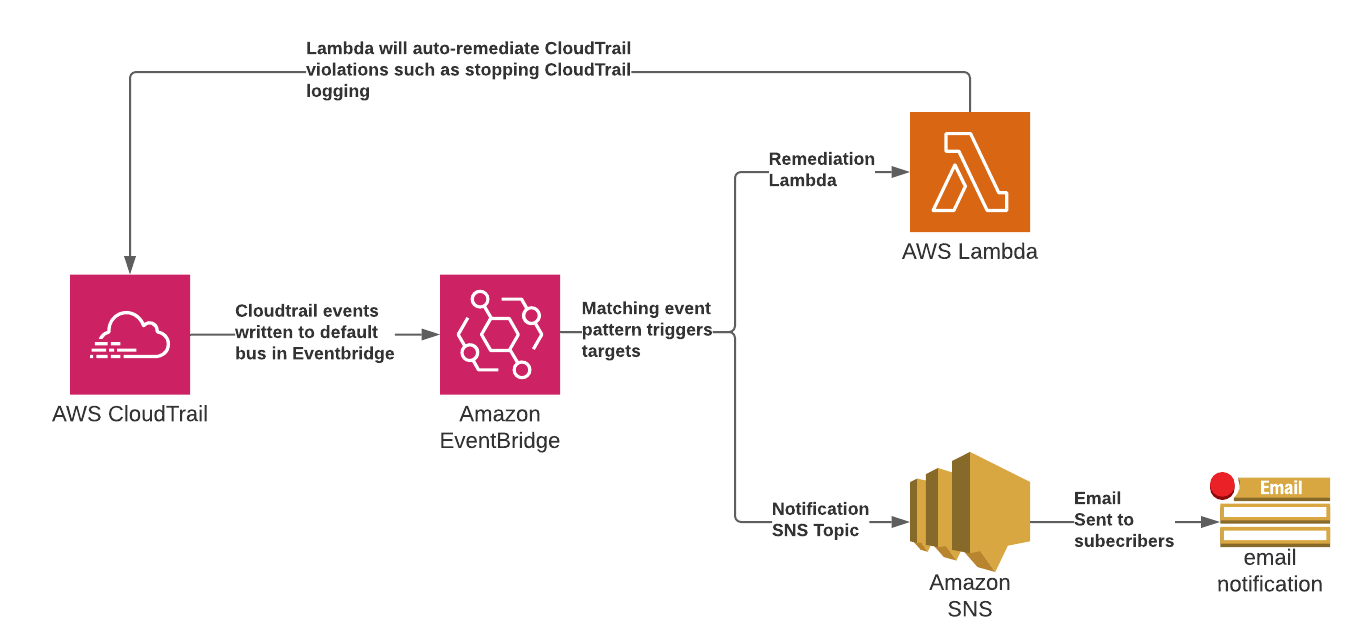
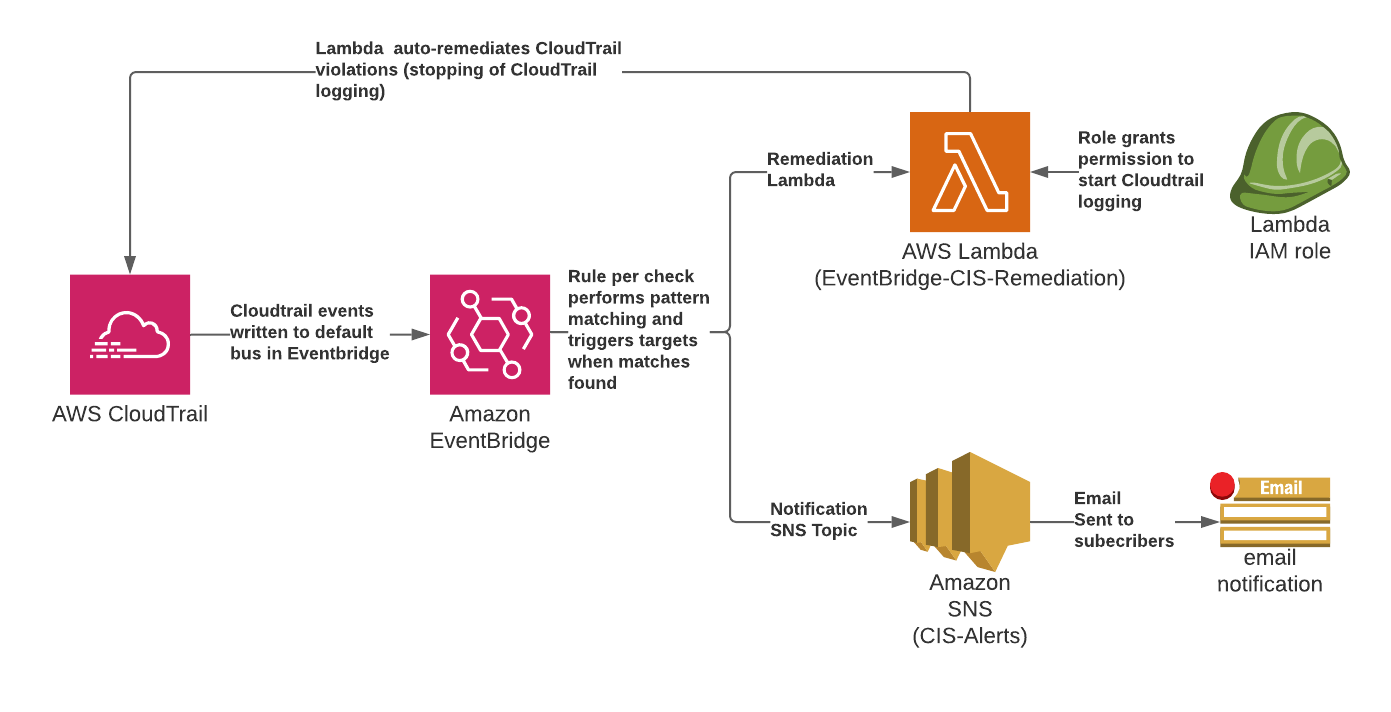
updated controls to cis benchmarks v1.3.0 instead of v1.2.0

diff --git a/README.md b/README.md
@@ -4,7 +4,7 @@ This repo contains sample code to help in deploying CIS benchmark alerts using E
 Examples have been provided in both Cloudformation and Terraform. See the README file in each sub-directory for usage instructions
 
 ## Overview
-The IaC templates will deploy 14 Eventbridge rules that filter on the same events that the standard CIS Cloudwatch Log Metrics use. See [CIS AWS Foundations Benchmark controls](https://docs.aws.amazon.com/securityhub/latest/userguide/securityhub-cis-controls.html) for specific details on the benchmark and Cloudwatch Log Metric approach. The high level architecture deployed can be seen below.
+The IaC templates will deploy 15 Eventbridge rules that filter on the same events that the standard CIS Cloudwatch Log Metrics use. See [CIS AWS Foundations Benchmark controls v1.3.0](https://www.cisecurity.org/benchmark/amazon_web_services/) for specific details on the benchmark and Cloudwatch Log Metric approach. The high level architecture deployed can be seen below.
 
 ![Architecture](Eventbridge-alerts.png)
 
@@ -12,31 +12,37 @@ When one of the Eventbridge rules are triggered it will forward the event to an 
 
 The Lambda function performs a sample remediation for CloudTrail events. Any additional remediation actions will need to be created still.
 
-Note that these templates are for example purposes only and the notifications and lambda remediations are not flushed out enough for immediate use in a production environment. Use the example Lamdba to expand on potential remediations depending on event type. 
-
+Note that these templates are for example purposes only and the notifications and lambda remediation are not flushed out enough for immediate use in a production environment. Re recommend using the example lamdba code to expand on potential remediation options depending on event type. 
 
 
 ## Event Pattern Filters
-Below are each of the 14 filters that are applied to the Eventbridge rules. They align with CIS Benchmarks 3.1 through 3.14. Each of the filters is applied automatically through the IaC templates or can be copy and pasted if you choose to create them manually.
+Below are each of the 15 filters that are applied to the Eventbridge rules. They align with CIS Benchmarks 4.1 through 4.15 in v1.3.0 of the benchmarks. Each of the filters is applied automatically through the IaC templates or can be copy and pasted if you choose to create them manually.
 
-### 3.1 Unauthorized API calls
+### 4.1 Unauthorized API calls
     {
       "source": ["aws.cloudtrail"],
       "detail-type": ["AWS API Call via CloudTrail"],
-      "errorCode": ["AccessDenied", "UnauthorizedOperation"]
+      "errorCode": ["AccessDenied", "*UnauthorizedOperation"]
     }
 
-### 3.2 Console Login without MFA
+### 4.2 Console Login without MFA
     {
       "detail-type": ["AWS Console Sign In via CloudTrail"],
       "detail": {
+        "eventName": ["ConsoleLogin"],
+        "userIdentity": {
+          "type": ["IAMUser"]
+        },
         "additionalEventData": {
-          "MFAUsed": ["No"]
+          "MFAUsed": [{ "anything-but": "Yes"}]
+        },
+        "responseElements": {
+          "ConsoleLogin": ["Success"]
         }
       }
     }
 
-### 3.3 Usage of Root Account
+### 4.3 Usage of Root Account
     {
       "detail-type": ["AWS Console Sign In via CloudTrail"],
       "detail": {
@@ -48,7 +54,7 @@ Below are each of the 14 filters that are applied to the Eventbridge rules. They
       }
     }
 
-### 3.4 IAM Policy Changes
+### 4.4 IAM Policy Changes
     {
       "source": ["aws.iam"],
       "detail-type": ["AWS API Call via CloudTrail"],
@@ -75,7 +81,7 @@ Below are each of the 14 filters that are applied to the Eventbridge rules. They
       }
     }
 
-### 3.5 Cloudtrail Configuration Changes
+### 4.5 Cloudtrail Configuration Changes
     {
       "source": ["aws.cloudtrail"],
       "detail-type": ["AWS API Call via CloudTrail"],
@@ -91,7 +97,7 @@ Below are each of the 14 filters that are applied to the Eventbridge rules. They
       }
     }
 
-### 3.6 Console Authentication Failures
+### 4.6 Console Authentication Failures
     {
       "detail-type": ["AWS Console Sign In via CloudTrail"],
       "detail": {
@@ -101,7 +107,7 @@ Below are each of the 14 filters that are applied to the Eventbridge rules. They
       }
     }
 
-### 3.7 KMS CMK Key Disablement or Deletion
+### 4.7 KMS CMK Key Disablement or Deletion
     {
       "source": ["aws.kms"],
       "detail-type": ["AWS API Call via CloudTrail"],
@@ -114,7 +120,7 @@ Below are each of the 14 filters that are applied to the Eventbridge rules. They
       }
     }
 
-### 3.8 S3 Bucket Policy Changes
+### 4.8 S3 Bucket Policy Changes
     {
       "source": ["aws.s3"],
       "detail-type": ["AWS API Call via CloudTrail"],
@@ -134,7 +140,7 @@ Below are each of the 14 filters that are applied to the Eventbridge rules. They
       }
     }
 
-### 3.9 AWS Config Configuration Changes
+### 4.9 AWS Config Configuration Changes
     {
       "source": ["aws.config"],
       "detail-type": ["AWS API Call via CloudTrail"],
@@ -149,7 +155,7 @@ Below are each of the 14 filters that are applied to the Eventbridge rules. They
       }
     }
 
-### 3.10 Security Group Changes
+### 4.10 Security Group Changes
     {
       "source": ["aws.ec2"],
       "detail-type": ["AWS API Call via CloudTrail"],
@@ -166,7 +172,7 @@ Below are each of the 14 filters that are applied to the Eventbridge rules. They
       }
     }
 
-### 3.11 NACL Changes
+### 4.11 NACL Changes
     {
       "source": ["aws.ec2"],
       "detail-type": ["AWS API Call via CloudTrail"],
@@ -183,7 +189,7 @@ Below are each of the 14 filters that are applied to the Eventbridge rules. They
       }
     }
 
-### 3.12 Network Gateway changes
+### 4.12 Network Gateway changes
     {
       "source": ["aws.ec2"],
       "detail-type": ["AWS API Call via CloudTrail"],
@@ -200,7 +206,7 @@ Below are each of the 14 filters that are applied to the Eventbridge rules. They
       }
     }
 
-### 3.13 RouteTable Changes
+### 4.13 RouteTable Changes
     {
       "source": ["aws.ec2"],
       "detail-type": ["AWS API Call via CloudTrail"],
@@ -218,7 +224,7 @@ Below are each of the 14 filters that are applied to the Eventbridge rules. They
       }
     }
 
-### 3.14 VPC Change Filter
+### 4.14 VPC Change Filter
     {
       "source": ["aws.ec2"],
       "detail-type": ["AWS API Call via CloudTrail"],
@@ -236,6 +242,35 @@ Below are each of the 14 filters that are applied to the Eventbridge rules. They
           "DetachClassicLinkVpc",
           "DisableVpcClassicLink",
           "EnableVpcClassicLink"
+        ]
+      }
+    }
+
+### 4.15 AWS Organizations Change Filter
+    {
+      "source": ["aws.organizations"],
+      "detail-type": ["AWS API Call via CloudTrail"],
+      "detail": {
+        "eventSource": ["organizations.amazonaws.com"],
+        "eventName": [
+          "AcceptHandshake",
+          "AttachPolicy",
+          "CreateAccount",
+          "CreateOrganizationalUnit",
+          "CreatePolicy",
+          "DeclineHandshake",
+          "DeleteOrganization",
+          "DeleteOrganizationalUnit",
+          "DeletePolicy",
+          "DetachPolicy",
+          "DisablePolicyType",
+          "EnablePolicyType",
+          "InviteAccountToOrganization",
+          "LeaveOrganization",
+          "MoveAccount",
+          "RemoveAccountFromOrganization",
+          "UpdatePolicy",
+          "UpdateOrganizationalUnit"
         ]
       }
     }
